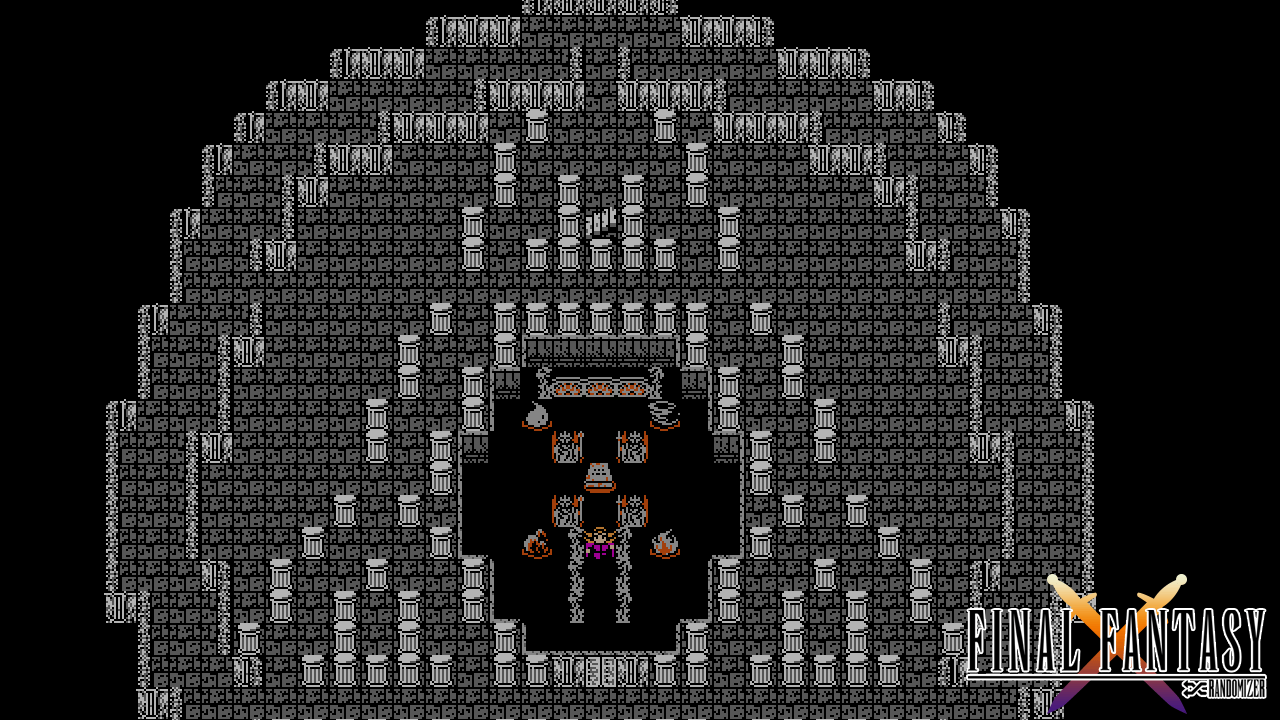
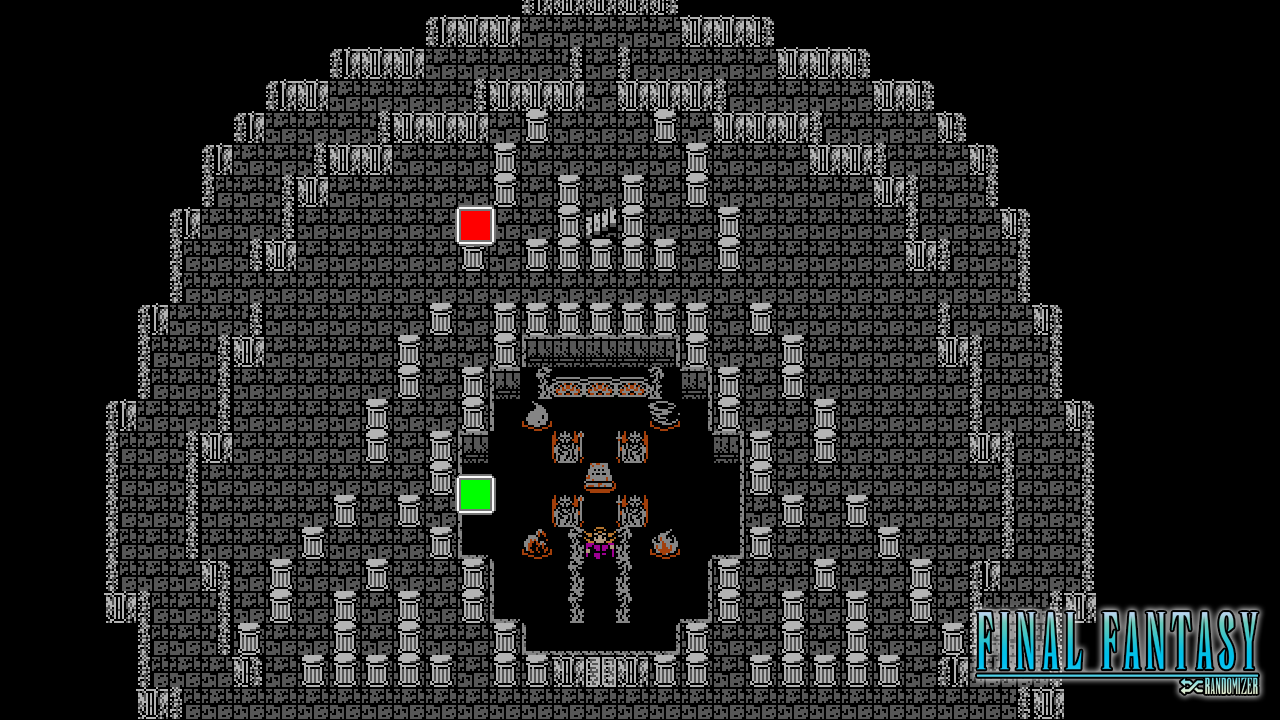
swaped backgrounds, minor edits

Changed region(s): [[0.75, 0.7944, 1.0, 1.0], [0.3438, 0.6417, 0.4062, 0.7333], [0.3438, 0.275, 0.4062, 0.3361]]

diff --git a/public/ffr-special/coop_tracker.html b/public/ffr-special/coop_tracker.html
@@ -15,7 +15,7 @@
             font-family: 'Chicago', Arial, sans-serif;
             background-color: #000;
             color: #fff;
-            background-position: 50% 88%;
+            background-position: 50% 50%;
             background-size: cover;
             display: grid;
             max-width: 972px;
@@ -192,12 +192,14 @@
         <tr-player player="2">
             <tr-template class="player-contain" source="#player_info_template"></tr-template>
         </tr-player>
+<!--
         <tr-player player="3">
             <tr-template class="player-contain" source="#player_info_template"></tr-template>
         </tr-player>
         <tr-player player="4">
             <tr-template class="player-contain" source="#player_info_template"></tr-template>
         </tr-player>
+-->
     </div>
 
     <tr-template href="../shared/four-menus-contain.html"></tr-template>

diff --git a/public/ffr-special/game_two_menu.html b/public/ffr-special/game_two_menu.html
@@ -29,7 +29,7 @@
                 <tr-select-toggle property="layout-back-select">
                     <tr-option selected target=".layout, .tracker-layout" toggle-class="ffr-default" value="1">Default</tr-option>
                     <tr-option target=".layout, .tracker-layout" toggle-class="ffr-irongol" value="2">IRONGOL</tr-option>
-                    <!-- <tr-option target=".layout, .tracker-layout" toggle-class="ffr-tourney" value="3">ST 2020</tr-option> -->
+                    <tr-option target=".layout, .tracker-layout" toggle-class="ffr-winter" value="3">Winter DAB</tr-option>
                     <tr-option target=".layout, .tracker-layout" toggle-class="ffr-dark" value="4">FFR AD</tr-option>
                 </tr-select-toggle>
     

diff --git a/public/ffr-special/bingo.css b/public/ffr-special/bingo.css
@@ -79,6 +79,10 @@
     background: url(images/bingo/base-dark.png) #000;
 }
 
+.ffr-winter{
+    background: url(images/bingo/base-winter.png) #000;
+}
+
 .player-video{
     width: var(--vidWidth);
     height: var(--vidHeight);
